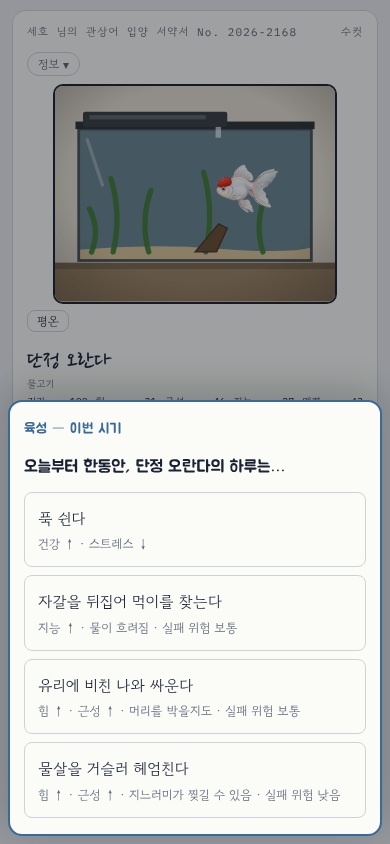
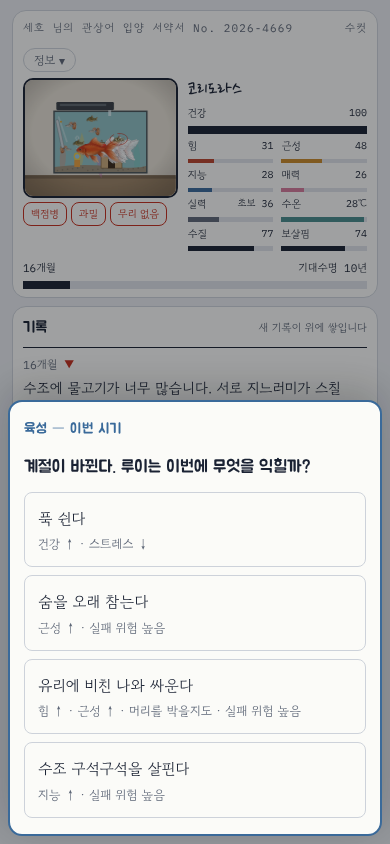
v0.9.32: an escaped fish lives on in its river; compact status panel on upright phones
The net comes before the choice, and only a fish that does not get away is
caught. Escapes end alive in the home river with their own ending text.
On portrait phones the tank sits beside the gauges so the log gets most
of the screen.

diff --git a/public/js/fish.js b/public/js/fish.js
@@ -63,9 +63,14 @@ function fishPrologue(){
   if(f.wild){
     step(()=>{q(T(x.region+'. 그곳의 물에서 {n}이 태어났습니다.'),'neutral',()=>{S.env='wildriver'});q(null,null,next)});
     step(()=>{q(null,null,()=>{S.ageM=f.capAge;S.month+=f.capAge;f.len=x.cm*clamp(f.capAge/(S.sp.life*.2),.08,.8)});q(T(f.capAge>=1?'{n}은 그 물에서 '+josa(ageLabel(f.capAge),'을')+' 자랐습니다.':'{n}은 아직 손가락만 했습니다.'),'sub');
-      q(T(x.catch||'{n}은 '+x.region+'에서 채집꾼의 그물에 걸렸습니다.'),'bad',()=>{S.env='catch';S.status='포획됨';S.scaredT=3;f.path.push('포획')});
+      /* the net comes first, the choice second; only a fish that did not get away is caught */
+      q(T('채집꾼들이 그물을 들고 '+x.region+'에 들어왔습니다.'),'bad',()=>{S.status='채집 중';S.scaredT=3});
       ask(pSit('net'));
-      q(null,null,()=>{if(f.escape){fEnd('free');return}if(!die(.03+.07*(1-x.hardy),'capture'))next()})});
+      q(null,null,()=>{
+        if(f.escape){q(T('그물이 올라갔을 때, {n}은 거기 없었습니다.'),'good',()=>{S.status='강에서 삶';remember('그물이 지나갈 때까지 숨어 있었다. 그 물을 끝내 떠나지 않았다.',1.6)});
+          q(T('같은 날 같은 물에서 태어난 형제들은 그날 밤 비행기에 실렸습니다.'),'sub');q(null,null,()=>fEnd('free'));return}
+        q(T(x.catch||'{n}은 '+x.region+'에서 채집꾼의 그물에 걸렸습니다.'),'bad',()=>{S.env='catch';S.status='포획됨';f.path.push('포획')});
+        q(null,null,()=>{if(!die(.03+.07*(1-x.hardy),'capture'))next()})})});
     step(()=>{q(T('{n}은 채집꾼 마을의 대야에서 중간상인에게, 중간상인에게서 수출업자에게 넘겨졌습니다. 주인이 바뀔 때마다 물도 바뀌었습니다.'),'sub',()=>{S.env='holding';S.status='중간 유통';grow(.6);f.path.push('중간상인')});
       q(T('출하 이틀 전부터 먹이가 끊겼습니다. 봉지 속 물을 덜 더럽히기 위해서입니다.'),'sub',()=>{S.health-=12});
       q(null,null,()=>{if(!die(.05+.13*(1-x.hardy),'holding'))next()})});
@@ -890,7 +895,8 @@ const FEND={
  bread:{cat:'사고',fx:'f-float',fact:'fBread',pl:[[2,'아이에게 먹이를 맡김']],l:()=>['아이가 "물고기도 배고프대"라며 식빵을 뜯어 넣었습니다. 매일, 한 장씩.','불어난 빵이 물을 하얗게 흐렸고, 그걸 받아먹은 {n}의 배는 풍선처럼 부풀었습니다.','{n}은 배를 위로 한 채 떠올랐습니다. 아이는 "물고기가 자고 있다"고 했습니다.']},
  classroom:{cat:'방치',fx:'f-float',fact:'fPlace',pl:[[2,'방학 동안 방치']],l:()=>['방학식 날, 담임은 "누가 물고기 밥 좀 챙겨 줘"라고 말했습니다. 대답한 아이는 없었습니다.','잠긴 교실에서 아무도 먹이를 주지 않았고, 아무도 물을 갈지 않았습니다.','개학날, 아이들이 수조 앞에 몰려들었습니다. 물 위에 하얗게 뜬 {n}을 보고 누군가는 울었고, 누군가는 웃었습니다.']},
  office:{cat:'방치',fx:'f-float',fact:'fPlace',pl:[[2,'연휴 동안 방치']],l:()=>['연휴 아흐레 동안 사무실에는 아무도 오지 않았습니다. 로비 수조의 조명 타이머만 켜졌다 꺼졌다를 반복했습니다.','출근한 직원이 수조를 보고 시설팀에 전화를 걸었습니다.','"물고기 다 죽었는데요. 새로 넣을까요?"']},
- free:{cat:'자유',fx:'f-rest',calm:1,fact:'fChain',l:()=>{const y=S.sp.life*(.55+R()*.4);S.ageM=y;S.f.wild=1;S.f.len=fx_().cm;return ['그물이 올라갔을 때, {n}은 거기 없었습니다.','{n}은 '+x_region()+'에서 '+josa(ageLabel(y),'을')+' 살았습니다. 그물과 상자와 유리벽을 끝내 몰랐습니다.','같은 날 같은 물에서 태어난 형제들은 그날 밤 비행기에 실렸습니다.']}},
+ free:{cat:'자유',fx:'f-home',calm:1,fact:'fChain',l:()=>{const y=S.sp.life*(.55+R()*.4);S.ageM=y;S.f.wild=1;S.f.free=1;S.f.len=fx_().cm;S.health=100;S.env='wildriver';S.status='강에서 삶';
+   return ['{n}은 '+x_region()+'에서 '+josa(ageLabel(y),'을')+' 살았습니다. 그물과 상자와 유리벽을 끝내 몰랐습니다.','어느 해, {n}은 태어난 물 바닥에 조용히 몸을 누이고 다시 움직이지 않았습니다.']}},
  millcull:{cat:'도태',fx:'f-shopeaten',fact:'fBreed',pl:[[4,'번식이 끝난 어미를 먹이로 줌']],l:p=>['알을 덜 낳기 시작한 어미들은 번식장에서 쓸모가 없었습니다.','주인은 뜰채로 {n}을 건져 '+fPredName(p)+'의 수조 위에서 기울였습니다. {n}은 몇 달 동안 수천 개의 알을 낳았습니다.','다음 날 아침, 그 수조에는 {n}의 흔적이 없었습니다.']},
  apex:{cat:'하천의 포식자',fx:'apex',calm:1,fact:'fApex',l:()=>['{n}은 발전소 온배수가 흘러드는 물목에서 겨울을 났습니다. 물은 한겨울에도 미지근했습니다.','이듬해 봄, 그 물목의 붕어와 피라미가 눈에 띄게 줄었습니다. 낚시꾼들이 "이상한 물고기"를 봤다는 글을 올렸습니다.','{n}은 '+josa(ageLabel(S.ageM),'을')+' 살았습니다. 수조에서는 먹이였던 것들이, 이 강에서는 {n}의 먹이였습니다.']},
  angler:{cat:'외래종 퇴치',fx:'f-angler',fact:'fRelease',l:()=>['{n}이 문 지렁이에는 바늘이 있었습니다.','"외래종이네." 낚시꾼은 {n}을 강둑 풀밭에 던져 두었습니다. 다시 물에 넣어 주는 사람은 없었습니다.','{n}은 해가 질 때까지 풀밭에서 아가미를 들썩였습니다.']},
@@ -906,7 +912,7 @@ function fEnd(key,arg){
   if(typeof factFix==='function')factKey=factFix(key,factKey,arg);
   const fact=F[factKey]||factKey;
   const pl=val(e.pl)||null;
-  if(S.preOwner) S.status='유통 중 사망';
+  if(S.preOwner&&key!=='free') S.status='유통 중 사망';
   const lines=e.l(arg).map(T);
   const rl=!e.calm&&typeof fRepeatLine==='function'&&fRepeatLine(key);if(rl)lines.push(T(rl));
   const sl=(e.calm||key==='natural')&&typeof fStatLine==='function'&&fStatLine();if(sl)lines.push(T(sl));

diff --git a/public/js/ui.js b/public/js/ui.js
@@ -103,7 +103,7 @@ function showEnd(cat,fact,calm){
   const al=ageLabel(lived);
   h.textContent=calm?T('{n}은 '+josa(al,'을')+' 살았습니다.'):T('{n}은 '+al+' 만에 생을 마쳤습니다.');
   E.appendChild(h);
-  if(!S.noPledge){const sc=document.createElement('div');sc.className='score'+(kept===S.pl.length||S.flags.fac?' calm':'');sc.textContent=S.preOwner?'서약서를 쓸 주인을 만나기도 전이었습니다':S.flags.fac?'서약서 대신 보호시설이 끝까지 돌봤습니다':(S.f&&S.f.place?josa(S.o.name,'이'):S.o.name+' 님이')+' 지킨 서약 '+kept+' / '+S.pl.length;E.appendChild(sc);
+  if(!S.noPledge){const sc=document.createElement('div');sc.className='score'+(kept===S.pl.length||S.flags.fac?' calm':'');sc.textContent=S.f&&S.f.free?'서약서도 주인도 필요 없는 생이었습니다':S.preOwner?'서약서를 쓸 주인을 만나기도 전이었습니다':S.flags.fac?'서약서 대신 보호시설이 끝까지 돌봤습니다':(S.f&&S.f.place?josa(S.o.name,'이'):S.o.name+' 님이')+' 지킨 서약 '+kept+' / '+S.pl.length;E.appendChild(sc);
     if(!S.preOwner&&!S.flags.fac){const ol=document.createElement('ol');ol.className='pledges endpl';drawPledges(ol,true);E.appendChild(ol)}}
   const c=document.createElement('div');c.className='compare';
   c.innerHTML='<div class="cbar"><span>살아낸 시간</span><div class="track"><div class="fill"></div></div><span class="mono a"></span></div><div class="cbar"><span>살 수 있던 시간</span><div class="track"><div class="fill pot" style="width:100%"></div></div><span class="mono b"></span></div>';
@@ -130,8 +130,8 @@ function showEnd(cat,fact,calm){
   // last words: what the animal would say to its person
   if(!S.noPledge){
     const lw=document.createElement('div');lw.className='lastwords';
-    const lab=document.createElement('label');lab.htmlFor='lastWords';lab.textContent=S.disp+(S.wild?'이 세상에':'이 주인에게')+' 남기는 마지막 한마디';
-    if(!hb(S.disp)) lab.textContent=S.disp+(S.wild?'가 세상에':'가 주인에게')+' 남기는 마지막 한마디';
+    const lab=document.createElement('label');lab.htmlFor='lastWords';const noOwner=S.wild||S.preOwner;lab.textContent=S.disp+(noOwner?'이 세상에':'이 주인에게')+' 남기는 마지막 한마디';
+    if(!hb(S.disp)) lab.textContent=S.disp+(noOwner?'가 세상에':'가 주인에게')+' 남기는 마지막 한마디';
     const ta=document.createElement('textarea');ta.id='lastWords';ta.rows=2;ta.maxLength=80;ta.placeholder=calm?'예) 고마웠어. 먼저 가서 기다릴게.':'예) 왜 그랬어?';
     const b=document.createElement('button');b.className='btn ghost';b.textContent='남기기';
     const out=document.createElement('p');out.className='last';out.hidden=true;
@@ -141,6 +141,7 @@ function showEnd(cat,fact,calm){
   const f=document.createElement('div');f.className='fact';f.innerHTML='<span class="label">실제로는</span><span class="tx"></span>';f.querySelector('.tx').textContent=fact;E.appendChild(f);
   const a=document.createElement('p');a.className='ask';
   a.textContent=S.noPledge?'먹이로 태어난 생명도 하나의 생명이었습니다. 무언가를 키우기로 하면, 그 생물이 먹는 생명까지 함께 책임지게 됩니다.':
+    S.f&&S.f.free?'이 물고기는 그물을 피해 태어난 물에서 끝까지 살았습니다. 같은 그물에 걸린 형제들은 그날 밤 상자에 담겼습니다. 사는 사람이 없으면, 잡는 사람도 없습니다.':
     S.preOwner?'이 물고기는 누군가의 수조에 닿기도 전에 죽었습니다. 가게 수조에서 헤엄치는 한 마리 뒤에는, 상자 안에서 먼저 죽은 물고기들이 있습니다. 사는 사람이 있어서 잡고, 기르고, 고릅니다.':
     S.f&&S.f.wild&&!calm?'이 물고기는 강에서 태어났습니다. 그 강에서 수조까지 오는 길, 그리고 수조 안의 시간 모두 사람이 정한 것이었습니다.':
     S.smuggled?'이 생물이 집에 오기까지 몇 마리가 길 위에서 죽었는지 아무도 세지 않습니다. 사는 사람이 없으면 밀렵도 없습니다.':

diff --git a/public/css/style.css b/public/css/style.css
@@ -437,6 +437,27 @@ body.ingame #choice:not([hidden]){position:fixed;inset:0;margin:auto;z-index:45;
   body.ingame .life .top{font-size:11px}
   body.ingame #card{max-height:60dvh}
 }
+/* phones held upright: a compact status panel (the tank beside the gauges) so the log gets most of the screen.
+   Everything that matters stays in view while the log scrolls under it; details fold behind "정보". */
+@media (max-width:620px) and (orientation:portrait){
+  body.ingame #card{max-height:46dvh;padding:8px 10px;gap:6px}
+  body.ingame .cardtop{font-size:10px}
+  body.ingame .head{grid-template-columns:minmax(0,45%) minmax(0,1fr);gap:10px;align-items:start}
+  body.ingame .stagewrap{order:-1}
+  body.ingame .stage{max-height:none;width:100%}
+  body.ingame .chips{margin-top:4px;gap:4px}
+  body.ingame .chips .chip{font-size:10.5px;padding:1px 7px}
+  body.ingame .species{font-size:21px;line-height:1.1;margin:0}
+  body.ingame .mrow{grid-template-columns:1fr;margin-top:3px;gap:1px}
+  body.ingame .mrow .mhead{display:none}
+  body.ingame #fishRow .meters,body.ingame #ownRow .meters{grid-template-columns:repeat(2,minmax(0,1fr));gap:3px 8px}
+  body.ingame #fishRow #mHealth{grid-column:1/-1}
+  body.ingame .mrow .meter .track{height:4px}
+  body.ingame #card.showinfo .head{grid-template-columns:minmax(0,1fr)}
+  body.ingame .life{margin-top:2px}
+  body.ingame .life .tick{display:none}
+  body.ingame .log li{font-size:14.5px}
+}
 
 /* the signer's name is required */
 .sign input.need{border-bottom-color:var(--pen);border-bottom-width:2px}

diff --git a/public/index.html b/public/index.html
@@ -120,7 +120,7 @@
     <div class="row memtools"><button type="button" class="btn ghost" id="pubMore" hidden>더 보기</button></div>
   </section>
 
-  <p class="foot">물고기 이야기 속 사건과 확률은 실제 통계(공공 수족관의 연간 폐사율, 운송·판매 중 폐사 조사, 선물로 받은 금붕어의 생존 등)에 맞춰 조정한 추정치이고, 화면에 사실로 나오는 수치는 모두 출처가 있습니다. 출처 목록은 저장소의 docs/DATA_SOURCES.md에 있습니다. 남긴 생과 닉네임은 이 브라우저(localStorage)에 저장됩니다. '모두의 주마등에도 올리기'를 고른 생만 서약인 이름, 물고기, 결말, 마지막 한마디와 함께 공개됩니다.<span class="ver">베타 v0.9.31 · 관상어 데이 · PARK, SEHO</span></p>
+  <p class="foot">물고기 이야기 속 사건과 확률은 실제 통계(공공 수족관의 연간 폐사율, 운송·판매 중 폐사 조사, 선물로 받은 금붕어의 생존 등)에 맞춰 조정한 추정치이고, 화면에 사실로 나오는 수치는 모두 출처가 있습니다. 출처 목록은 저장소의 docs/DATA_SOURCES.md에 있습니다. 남긴 생과 닉네임은 이 브라우저(localStorage)에 저장됩니다. '모두의 주마등에도 올리기'를 고른 생만 서약인 이름, 물고기, 결말, 마지막 한마디와 함께 공개됩니다.<span class="ver">베타 v0.9.32 · 관상어 데이 · PARK, SEHO</span></p>
 </div>
 
 <!-- load order matters: later files use what earlier files declare -->

diff --git a/public/js/data/fishchoice.js b/public/js/data/fishchoice.js
@@ -193,7 +193,7 @@ const FSIT=[
 const fo=(k,v)=>()=>{S.f.odds[k]=v};
 const PSIT={
  net:{who:'그물 앞에서',p:['그물이 물을 가르며 다가온다. 형제들이 한쪽으로 몰린다. 나는…','물이 흙탕물로 변했다. 사람 다리가 강바닥을 휘젓는다. 나는…','손전등 불빛이 물속을 비춘다. 밤인데도 사람들이 있다. 나는…'],o:[
-  {l:'진흙 속으로 파고든다',d:'운이 좋으면',out:[[1,'{n}은 강바닥 진흙 속으로 몸을 밀어 넣었습니다.','neutral',()=>{S.f.escape=R()<.22}]]},
+  {l:'진흙 속으로 파고든다',d:'운이 좋으면',out:[[1,'{n}은 바닥 진흙 속으로 몸을 밀어 넣었습니다.','neutral',()=>{S.f.escape=R()<.22}]]},
   {l:'형제들 틈에 섞인다',out:[[1,'{n}은 무리 한가운데로 파고들었습니다.','neutral',fo('capture',.6)]]},
   {l:'그물 반대쪽으로 내달린다',d:'빠르지만 위험하게',out:[[1,'{n}은 그물 반대쪽으로 내달렸습니다.','neutral',()=>{S.f.escape=R()<.12;S.f.odds.capture=1.6}]]},
   {l:'바위 틈 깊숙이 몸을 넣는다',t:'shy',out:[[1,'{n}은 바위 틈에 몸을 끼우고 숨을 죽였습니다.','neutral',()=>{S.f.escape=R()<.3;S.f.odds.capture=.8}]]},

diff --git a/public/js/art/fish.js b/public/js/art/fish.js
@@ -352,6 +352,8 @@ function fishDeath(){
   const inTank=(fn)=>{const {s,g,bottom}=tankScene();const inner=fn(g,bottom);return s+(vClip(g)?`<g clip-path="url(#${g.cid})">${inner}</g>`:inner)+tankFront(g)};
   const da=FISHART[id].dead,pxT=g=>Math.min(clamp(g.w*f.len/g.len*FZ,22,g.w*.95),g.h*.6*da[0]/da[1]),fh=px=>px*da[1]/da[0];
   switch(fx){
+  /* got away from the net: the river it was born in, as it was */
+  case 'f-home': return fishChainScene('wildriver');
   case 'f-float': case 'bellyup':
     if(!f.tank||S.wild) return riverDead('float');
     return inTank((g)=>{const px=pxT(g);let s=`<rect x="${g.x}" y="${g.y}" width="${g.w}" height="4" fill="#C9C29A" opacity=".8"/>`;

diff --git a/public/js/engine.js b/public/js/engine.js
@@ -108,7 +108,7 @@ function aloneChoice(){
 }
 function endLife(lines,cat,fact,pl,calm,fx,pred){
   S.ending=true;
-  lines.forEach((l,i)=>q(l,i===lines.length-1?'end':(i===0?'bad':'sub'),i===0&&pl?()=>pl.forEach(p=>breakP(p[0],p[1])):null));
+  lines.forEach((l,i)=>q(l,i===lines.length-1?'end':(i===0?(calm?'sub':'bad'):'sub'),i===0&&pl?()=>pl.forEach(p=>breakP(p[0],p[1])):null));
   q(null,null,()=>{S.fx=fx||(calm?'ghost':'sickdead');S.endCat=cat;S.gag=null;S.pred=pred||null;S.calm=!!calm;showEnd(cat,typeof fact==='function'?fact():fact,calm)});
 }
 function fireEnd(e,bonus){

diff --git a/public/js/share.js b/public/js/share.js
@@ -8,7 +8,7 @@ const SHARE_CFG={
   key:'sb_publishable_twic4vU9mUSIjonkj6ybQg_ijxC1qmq',   // publishable key: safe to publish, row-level security decides what it may do
 };
 const shareOn=()=>!!(SHARE_CFG.url&&SHARE_CFG.key)&&typeof fetch==='function';
-const SHARE_VER='0.9.31';
+const SHARE_VER='0.9.32';
 
 /* words that are masked in names and last words before posting and again when showing */
 const BADW=['씨발','시발','씨바','씹','좆','병신','븅신','지랄','개새','새끼','니미','느금','엠창','fuck','shit','bitch','cunt','nigg'];

diff --git a/LOG.md b/LOG.md
@@ -55,6 +55,7 @@ Status: ✅ Done · 🔄 In progress · ⬜ Not started
 | 2026-10-11 | v0.9.22 | **Rule change (user, 2026-10-11): wounds may bleed in text** — the tone stays a cruel fairy tale for ages 15+, drawings are unchanged. **Fact `fChain` rewritten:** the vague "2% to over 70%" is replaced by two concrete findings — 40 of 50 boxes of cardinal tetras imported to the US lost to mortality (Chapman et al. 1997) and 30–70% of Amazon-caught fish dead before the consumer (Waichman et al. 2001), both via Oliveira et al. 2008 (Acta Amazonica 38(4)); the ending paragraph under it no longer repeats the fact. **Stats split in two rows:** 물고기 — 건강 (HP) · 힘 · 근성 · 지능 · 매력; 주인 몫 — 주인 실력 · 수온 · 수질 · 보살핌 (in the wild: 강물 — 수온 · 먹이 찾기). New stat 힘 (strength): wins fights with its own kind, takes less fin damage and bullying, adds to crisis survival; 근성 now also slows health loss; 영리함 → 지능, 애교 → 매력. 수온 is a °C reading derived from the same conditions the hazards use (season, heater, small bowl, window, pond, river, warm outflow; 36 °C during a stuck-heater crisis) with a bar for how far it is from the species' range (cold 18–24, cool 22–26, tropical 24–28, warm 22–30). Training gains and descriptions follow the new stats; schedule prompts include "살아남아, {n}." **Crueler:** the fish's own voice (「숨이… 숨이 안 쉬어져.」「아가미가 뜨거워.」「아파. 꼬리가 없어진 것 같아.」) follows ~70% of lines about ammonia, chlorine, cold, heat, the bag, hunger, wounds, disease, sorting, the hand, the cat, the floor (at most one per step, not in skip mode); endings for uncycled tanks, neglect, disease (a last-stage line per disease), nipping, mauling, being eaten, jumping, tap water, culling and stress are rewritten in the body, with blood where there are wounds; fights and training failures bleed. Anchors unchanged: experts 6%/yr, learners 22% / casual 81% / gift 93% dead in year 1, 27% before any owner |
 | 2026-10-11 | v0.9.23 | The fish's voice is written under the line it answers, inside the same log row (it was a separate row above it and broke the log's grid); still kept as its own line in the 주마등 replay |
 | 2026-10-11 | v0.9.24 | **Context checks (the small things):** the fish's voice only answers bad lines (or good ones with a matching good voice: clean water, food from the hand, recovery, a hiding place) and the patterns were tightened — "먹이를 물었습니다" (asked) no longer reads as a bite, a water change "온도와 염소까지 맞춘" no longer burns. **A pond is not a room:** situations, options, everyday lines, training, twists and the fish's voice that need a glass tank in a room (glass, lid, heater, lights, window, TV, shelf, living room, siphon, stand…) are left out in a garden pond; "수조" in a pond log and in choice prompts reads "연못"; the lid fix becomes a net over the pond (also a new learning step for ponds without one); tap-water, soap/spray/hot-water poisoning and the siphon no longer happen in a pond; the winter blackout mentions the heater only when there is one (ponds freeze over instead); velvet rubs on stones in a pond; the charm line of a calm ending speaks of the pond's edge; a neglectful pond owner stops going out to the pond. Training failures only pick a mishap that fits the tank (no heater burn without a heater, no filter without one, no tankmates when alone); three pond-only schedule options (hide deep from herons, take food from the owner's hand, swim the pond's length). Lines about "other fish" in solo tanks and the old filter "thrown away" after an upgrade were fixed. **Owner rank** from 주인 실력: 왕초보 (<30) · 초보 (30) · 중수 (55) · 고수 (78), shown on the meter; each rank-up writes a line; a diligent learner who reaches 고수 after at least three lessons becomes an expert. Anchors: experts 5%/yr, learners 19% / casual 80% / gift 96% dead in year 1, 27% before any owner |
+| 2026-10-12 | v0.9.32 | **A fish that got away is not a fish that died (user report).** A wild betta that slipped the net was shown as "유통 중 사망" (died in the trade), with a fish lying on the bottom of an indoor tank, "no happy memory", last words "to the owner", the line "this fish died before it reached anyone's tank", and the escape line dated at the end of its life. Now: the net comes first and the fish chooses; only a fish that does not get away is caught (the capture line used to come before the choice, so it was caught and then escaped). An escape ends in the river it was born in, drawn alive; status "강에서 삶"; the escape is its happiest memory; the ending reads "서약서도 주인도 필요 없는 생이었습니다" and "사는 사람이 없으면, 잡는 사람도 없습니다"; last words are to the world; calm endings no longer mark their first line red. `tools/sim.mjs` no longer counts escapes as deaths before an owner (23.7%). **Phones held upright (user report):** the status panel is compact — the tank on the left, the nine gauges in two columns beside it, details behind "정보" — so the log takes about 60% of the screen and the fish and its numbers stay in view while the log scrolls. **Deploy note:** the live site was still on v0.9.26 although v0.9.27–0.9.31 had been pushed; Render's auto-deploy had not run. |
 | 2026-10-12 | v0.9.31 | **Bugs found in the README screenshots, fixed before retaking them.** Each screenshot was read line by line as a player would. (1) A learner shown as 고수 but labelled 초보, and a learner who started at 70 (중수) on the day of signing: learners now start at skill 0.40–0.54 (always 초보) and the owner line shows the climb ("공부하는 초보 → 지금은 중수"; "배우는 중" is dropped at 고수); first-year deaths for learners stay ~20%. (2) A lazy owner reached 고수: owners who know the fix and put it off stop at 0.70. (3) Skilled owners moved the tank like beginners: they now carry the fish in an oxygen bag and the filter media in tank water. (4) The curious fish's training line mentioned a cat when there was none. (5) A learner's tank upgrade said the media was moved and, in the next line, that the filter was new: one line now. (6) "폭염으로 수온계가 31도" next to a 28℃ gauge, and a broken heater in winter with the gauge at 26℃: lines that name a temperature now set the gauge for a few steps (31℃, 17℃, 19℃; a stuck heater shows 38℃); a skilled owner replaces a broken heater the same day. (7) A guppy "born in a friend's tank" had first been through a farm, a sieve, a box and a wholesaler: fry shared by an acquaintance are now born there and skip the trade chain, and a domestic breeder's fish is selected by the breeder and skips the wholesaler; the bag line names where the water came from (지인 집 물, 브리더의 물, 택배 상자 속 물). (8) The fish was named before the pledge was signed: the signing line now comes first, the broken promises are marked once the fish is in the water. (9) A child "named it 뽀삐" while the card said it had a name, or none: the child names it only if it has no name, and the name is kept. (10) Outcomes that only made sense with the prompt ("그 눈은…", "연필은 수초만…", "그 물건") now carry their own context, or a context line is logged before the choice (new object, a child with a pencil, a party). (11) "수초 그늘" in tanks drawn with stones, a pipe or nothing: plant lines name what the tank actually has (돌 그늘, 파이프 뒤, 구석). (12) A 3000 L pond got a cooling fan (now a shade cloth), "격리 수조" became "격리 연못" in pond lives, and a winter pond at 4℃ showed an empty gauge for koi (goldfish and koi outdoors now use a seasonal range). (13) An expert took three days to notice an unplugged filter (now the same evening) and watched a beginner's video on cycling at skill 95 (only below 0.6). (14) 23 narration lines were in the present tense ("가리킵니다", "울립니다", "노려봅니다"); all narration is past tense again, facts stay in the present. Screenshots retaken (desktop and phone, with and without a schedule card). |
 | 2026-10-12 | v0.9.30 | **Documentation for the release day.** README: architecture of the shared memorial (static site on Render + Supabase with read/insert-only row-level security), the design decisions added today (the signer is the player; one screen while a life plays; facts checked per species), a milestone table, new desktop and phone screenshots of the one-screen layout with and without a dialog. DESIGN: sections on the signer, the screen layout and the shared memorial. DEPLOY: the Supabase step. ROADMAP: release outcome and next steps. Small fix found while taking the screenshots: an owner who reaches 중수 or 고수 now fits a thermostat heater to a tropical tank that had none |
 | 2026-10-12 | v0.9.29 | **모두의 주마등 is live.** Supabase project in Seoul with the `lives` table, row-level security (anyone may read and insert; nobody may change or delete from the browser), a `life_stats` counter and a 20-posts-a-minute trigger. The page uses the publishable key (apikey header only). Verified from a browser: insert 201, select 200, anonymous delete affects 0 rows; in headless Chromium a finished life posts with the box ticked (≈2 KB per life) and the shared list opens in the replay. Header line reads "지금까지 남겨진 생 n · 끝까지 산 생 m" |
@@ -92,6 +93,7 @@ so real players (who avoid the obviously bad option) see longer lives.
 | v0.9.22 (fish only, 6000 lives) | 18.6% | 32% | 9.4 |
 | v0.9.25 beta (fish only, 4000 lives) | 20.8% | 34% | 9.7 |
 | v0.9.31 beta (fish only, 3000 lives) | 20.5% | 34% | 9.6 |
+| v0.9.32 beta (fish only, 3000 lives) | 20.1% | 33% | 9.4 |
 
 v0.9 fish detail (4000 lives): 21.6% die before any owner (culling, transport, quarantine, shop tank, capture). By owner, lived out · mean share of lifespan: expert 46% · 65%, learner 14% · 39%, breeder 12% · 38%, content 5% · 24%, casual 0% · 11%, gift 0% · 10%. Top endings: disease 16%, failed cycling 16%, natural 10%, neglect 6%, culling 5%. Distinct events per life are lower than before because the fish pool is new and many lives end in the first months; a second content pass should raise it.
 

diff --git a/README.md b/README.md
@@ -14,7 +14,7 @@ A browser life-simulation about the promises we make to the animals we keep.
 > signed six promises. You choose its temperament, make its choices when it matters, raise it
 > through the seasons — and watch which promises are struck out in red pen.
 
-**Status:** public beta (v0.9.31, *관상어 데이* — "ornamental fish day": fish only) · **Live:** [keep-me-until-the-end.onrender.com](https://keep-me-until-the-end.onrender.com) · **Stack:** plain HTML / CSS / JavaScript, no build step · **Hosting:** Render static site + Supabase (shared memorial) · **Language:** the game is in Korean; all documentation is in English
+**Status:** public beta (v0.9.32, *관상어 데이* — "ornamental fish day": fish only) · **Live:** [keep-me-until-the-end.onrender.com](https://keep-me-until-the-end.onrender.com) · **Stack:** plain HTML / CSS / JavaScript, no build step · **Hosting:** Render static site + Supabase (shared memorial) · **Language:** the game is in Korean; all documentation is in English
 
 > **Content warning.** Neglect, breeding mills, smuggling, fish eaten by tankmates or flushed
 > alive are told as a cruel fairy tale: plain sentences, wounds that bleed in text, no gore in the
@@ -129,7 +129,7 @@ decisions, in short:
 | v0.9.12–0.9.20 | 2026-10-11 | balance against published anchors (easing reverted), crises as choices, owner types, layouts |
 | v0.9.21–0.9.24 | 2026-10-11 | raising the fish (stats, schedule), breeding modes, learning vs. lazy owners, context checks |
 | v0.9.25–0.9.26 | 2026-10-12 | public beta: responsive layout, OG image, GitHub → Render deploy |
-| v0.9.27–0.9.31 | 2026-10-12 | one-screen play, the player as owner, facts checked per species, shared memorial on Supabase |
+| v0.9.27–0.9.32 | 2026-10-12 | one-screen play, the player as owner, facts checked per species, shared memorial on Supabase |
 
 Every row is expanded in [LOG.md](LOG.md).
 

diff --git a/docs/DESIGN.md b/docs/DESIGN.md
@@ -143,7 +143,8 @@ see the tank. During play the page is now a fixed layout and only the log scroll
 | Screen | Layout |
 |---|---|
 | desktop, landscape tablet, landscape phone | card (tank, gauges, details) and controls on the left, the log in its own panel on the right |
-| portrait tablet, phone | card on top (details folded behind "정보"), log in the middle, controls at the bottom |
+| portrait tablet | card on top (details folded behind "정보"), log in the middle, controls at the bottom |
+| phone held upright (v0.9.32) | a compact status panel on top — the tank beside the nine gauges — so the log gets about 60% of the screen; controls at the bottom |
 | any | every choice is a dialog over the screen; on phones a bottom sheet |
 
 At the ending the page returns to normal scrolling so the ending, the promises and the memorial can be
